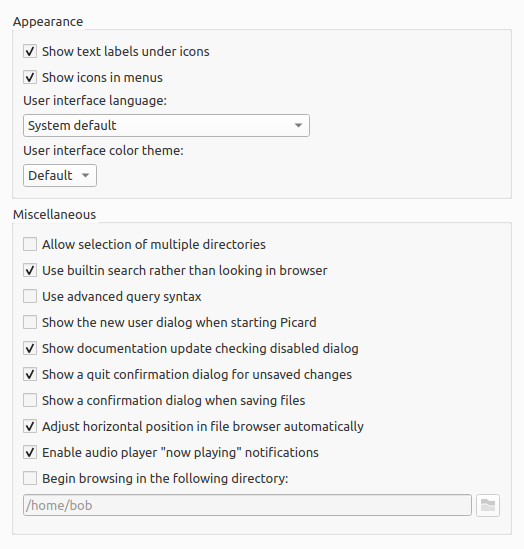
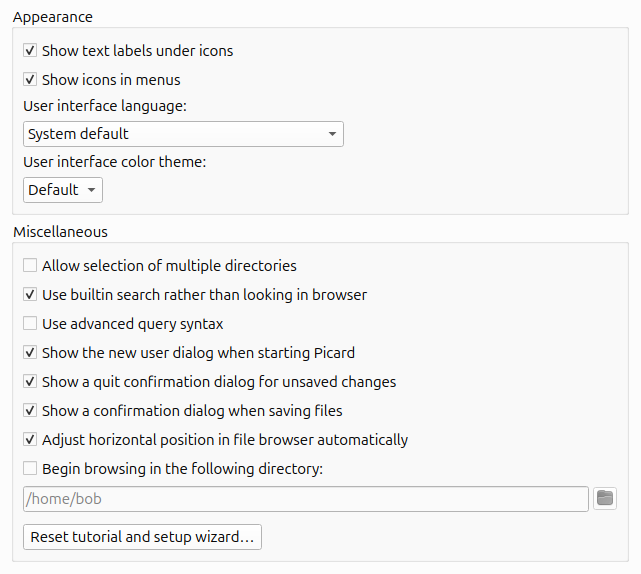
Update interface options
- Update screenshot
- Remove "Show documentation update checking disabled dialog". The update
  settings where moved into the first use wizard as part of PICARD-2999
- Documented the "Reset tutorial and setup wizard" button

Changed region(s): [[0.0, 0.3716, 0.7023, 0.9599], [0.0, 0.0, 0.5496, 0.3406], [0.8855, 0.8361, 0.9771, 0.9599]]

diff --git a/config/options_interface.rst b/config/options_interface.rst
@@ -60,10 +60,6 @@
 
    When this is enabled, Picard will show a dialog intended for new users when you start the program. This displays a warning about the consequences of saving files, along with a suggestion for minimizing the impact until you have confirmed that your configuration produces the expected results. It also provides a link to the on-line documentation.
 
-**Show documentation update checking disabled dialog**
-
-   When this is enabled, Picard will show a dialog during startup to warn you if the documentation checking on ReadTheDocs is disabled. The documentation checking can be enabled or disabled through a setting in the :doc:`options_general` section.
-
 **Show a quit confirmation dialog for unsaved changes**
 
    When this is enabled, Picard will show a dialog when you try to quit the program with unsaved files loaded. This may help prevent accidentally losing tag changes you've made, but not yet saved.
@@ -79,6 +75,10 @@
 **Begin browsing in the following directory**
 
    By default, Picard remembers the last directory used to load files. If you enable this option and provide a directory, Picard will always start in the directory provided.
+
+**Reset tutorial and setup wizard**
+
+   This button will reset the tutorial and setup wizard to its initial state, showing both again on the next startup.
 
 .. only:: html and not epub
 
